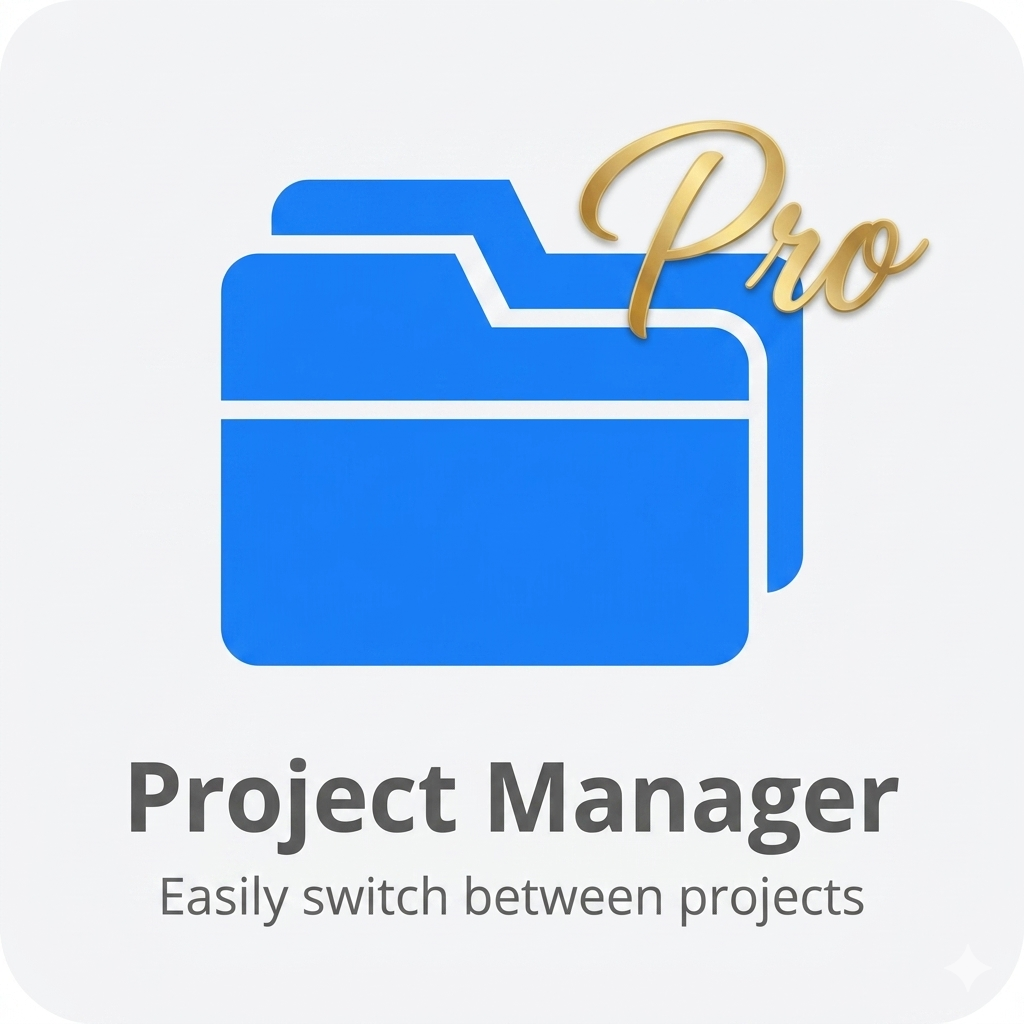
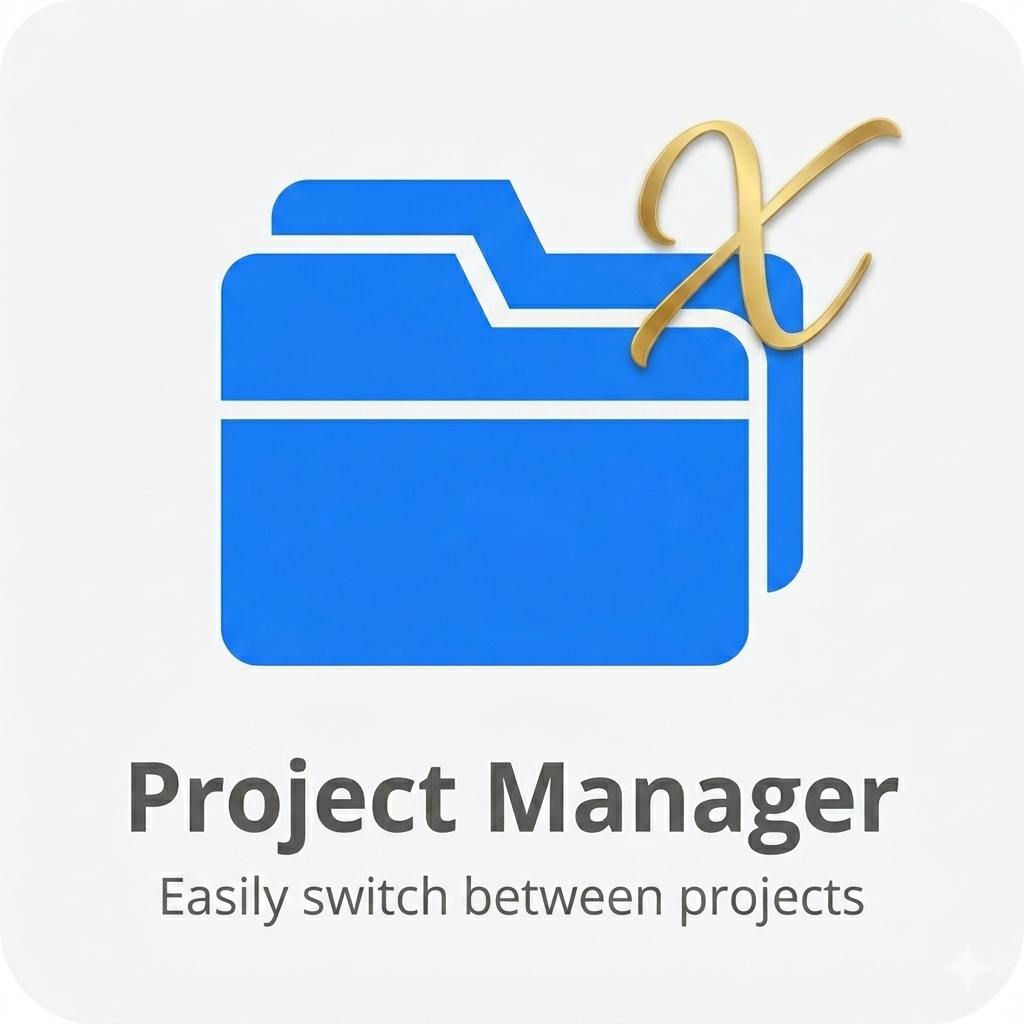
chore: rename to Project Manager X

Changed region(s): [[0.5625, 0.0938, 0.9062, 0.375]]

diff --git a/src/extension.ts b/src/extension.ts
@@ -1,5 +1,5 @@
 /**
- * Project Manager Pro
+ * Project Manager X
  * Copyright (c) 2026 Maiwulanjiang Maiming <[email redacted]>
  * Licensed under GPL-3.0
  */
@@ -347,7 +347,7 @@ class ProjectManagerWebviewProvider implements vscode.WebviewViewProvider {
   <meta charset="UTF-8">
   <meta name="viewport" content="width=device-width, initial-scale=1.0">
   <meta http-equiv="Content-Security-Policy" content="default-src 'none'; script-src 'nonce-${nonce}'; style-src 'unsafe-inline';">
-  <title>Project Manager Pro</title>
+  <title>Project Manager X</title>
   <style>
     * { margin: 0; padding: 0; box-sizing: border-box; }
     body {

diff --git a/src/webview/App.tsx b/src/webview/App.tsx
@@ -1,5 +1,5 @@
 /**
- * Project Manager Pro
+ * Project Manager X
  * Copyright (c) 2026 Maiwulanjiang Maiming <[email redacted]>
  * Licensed under GPL-3.0
  */
@@ -505,7 +505,7 @@ export default function App() {
           {showSettingsPanel && (
             <div className="settings-panel">
               <div className="settings-panel-header">
-                <span>Project Manager Pro</span>
+                <span>Project Manager X</span>
                 <button className="settings-panel-close" onClick={() => setShowSettingsPanel(false)}>
                   <svg viewBox="0 0 16 16" fill="currentColor" width="12" height="12">
                     <path d="M8 0C3.58 0 0 3.58 0 8C0 12.42 3.58 16 8 16C12.42 16 16 12.42 16 8C16 3.58 12.42 0 8 0ZM11.71 10.29L10.29 11.71L8 9.41L5.71 11.71L4.29 10.29L6.59 8L4.29 5.71L5.71 4.29L8 6.59L10.29 4.29L11.71 5.71L9.41 8L11.71 10.29Z"/>

diff --git a/src/commands/projectCommands.ts b/src/commands/projectCommands.ts
@@ -56,7 +56,7 @@ export function registerProjectCommands(ctx: vscode.ExtensionContext, container:
       }
 
       const tasks = container.projectManager.getTasks();
-      let markdown = '# Project Manager Pro - Export\n\n';
+      let markdown = '# Project Manager X - Export\n\n';
 
       for (const project of projects) {
         markdown += `## ${project.name}\n`;

diff --git a/src/core/projectManager.ts b/src/core/projectManager.ts
@@ -1,5 +1,5 @@
 /**
- * Project Manager Pro
+ * Project Manager X
  * Copyright (c) 2026 Maiwulanjiang Maiming <[email redacted]>
  * Licensed under GPL-3.0
  */

diff --git a/src/core/storage.ts b/src/core/storage.ts
@@ -1,5 +1,5 @@
 /**
- * Project Manager Pro
+ * Project Manager X
  * Copyright (c) 2026 Maiwulanjiang Maiming <[email redacted]>
  * Licensed under GPL-3.0
  */

diff --git a/src/types/index.ts b/src/types/index.ts
@@ -1,5 +1,5 @@
 /**
- * Project Manager Pro
+ * Project Manager X
  * Copyright (c) 2026 Maiwulanjiang Maiming <[email redacted]>
  * Licensed under GPL-3.0
  */

diff --git a/README.md b/README.md
@@ -1,15 +1,15 @@
-# Project Manager Pro
+# Project Manager X
 
 <p align="center">
-  <img src="resources/icon.png" alt="Project Manager Pro Logo" width="180"/>
+  <img src="resources/icon.png" alt="Project Manager X Logo" width="180"/>
 </p>
 
 <p align="center">
-  <a href="https://marketplace.visualstudio.com/items?itemName=MaiwulanjiangMaiming.project-manager-pro">
+  <a href="https://marketplace.visualstudio.com/items?itemName=MaiwulanjiangMaiming.project-manager-x">
     <img src="https://img.shields.io/badge/VS%20Code-Marketplace-blue?logo=visual-studio-code" alt="VS Code Marketplace" height="24"/>
   </a>
-  <a href="https://open-vsx.org/extension/maiwulanjiangmaiming/project-manager-pro">
-    <img src="https://img.shields.io/open-vsx/v/maiwulanjiangmaiming/project-manager-pro?label=Open%20VSX&style=flat&color=2C2255&logo=open-vsx" alt="Open VSX Version" height="24"/>
+  <a href="https://open-vsx.org/extension/maiwulanjiangmaiming/project-manager-x">
+    <img src="https://img.shields.io/open-vsx/v/maiwulanjiangmaiming/project-manager-x?label=Open%20VSX&style=flat&color=2C2255&logo=open-vsx" alt="Open VSX Version" height="24"/>
   </a>
 </p>
 
@@ -35,11 +35,11 @@ A powerful VS Code extension for managing projects with tags, tasks, milestones,
 
 ### From VS Code Marketplace
 
-Search for **"Project Manager Pro"** in the Extensions view (`Cmd+Shift+X`)
+Search for **"Project Manager X"** in the Extensions view (`Cmd+Shift+X`)
 
 ### From VSIX File
 
-1. Download the `.vsix` file from [Releases](https://github.com/MaiwulanjiangMaiming/Project-Manager-Pro/releases)
+1. Download the `.vsix` file from [Releases](https://github.com/MaiwulanjiangMaiming/Project-Manager-X/releases)
 2. Open VS Code → Extensions (`Cmd+Shift+X`)
 3. Click "..." menu → **"Install from VSIX"**
 4. Select the downloaded file
@@ -47,7 +47,7 @@ Search for **"Project Manager Pro"** in the Extensions view (`Cmd+Shift+X`)
 ## Quick Start
 
 1. Open a workspace in VS Code
-2. Click **"Save Current Project"** in the Project Manager Pro sidebar
+2. Click **"Save Current Project"** in the Project Manager X sidebar
 3. Add tags to organize your projects
 4. Create tasks and milestones to track progress
 
@@ -94,7 +94,7 @@ Search for **"Project Manager Pro"** in the Extensions view (`Cmd+Shift+X`)
 ## Architecture
 
 ```
-Project-Manager-Pro/
+Project-Manager-X/
 ├── src/
 │   ├── extension.ts          # Main entry
 │   ├── core/                 # Core modules
@@ -130,7 +130,7 @@ Project-Manager-Pro/
 
 ## Contributing
 
-Contributions welcome! Please read our [contributing guidelines](https://github.com/MaiwulanjiangMaiming/Project-Manager-Pro/blob/main/CONTRIBUTING.md).
+Contributions welcome! Please read our [contributing guidelines](https://github.com/MaiwulanjiangMaiming/Project-Manager-X/blob/main/CONTRIBUTING.md).
 
 ## License
 
@@ -139,7 +139,7 @@ GPL-3.0 License
 ## Contact
 
 For feature requests or bug reports:
-- [GitHub Issues](https://github.com/MaiwulanjiangMaiming/Project-Manager-Pro/issues)
+- [GitHub Issues](https://github.com/MaiwulanjiangMaiming/Project-Manager-X/issues)
 - Email: [email redacted]
 
 ---